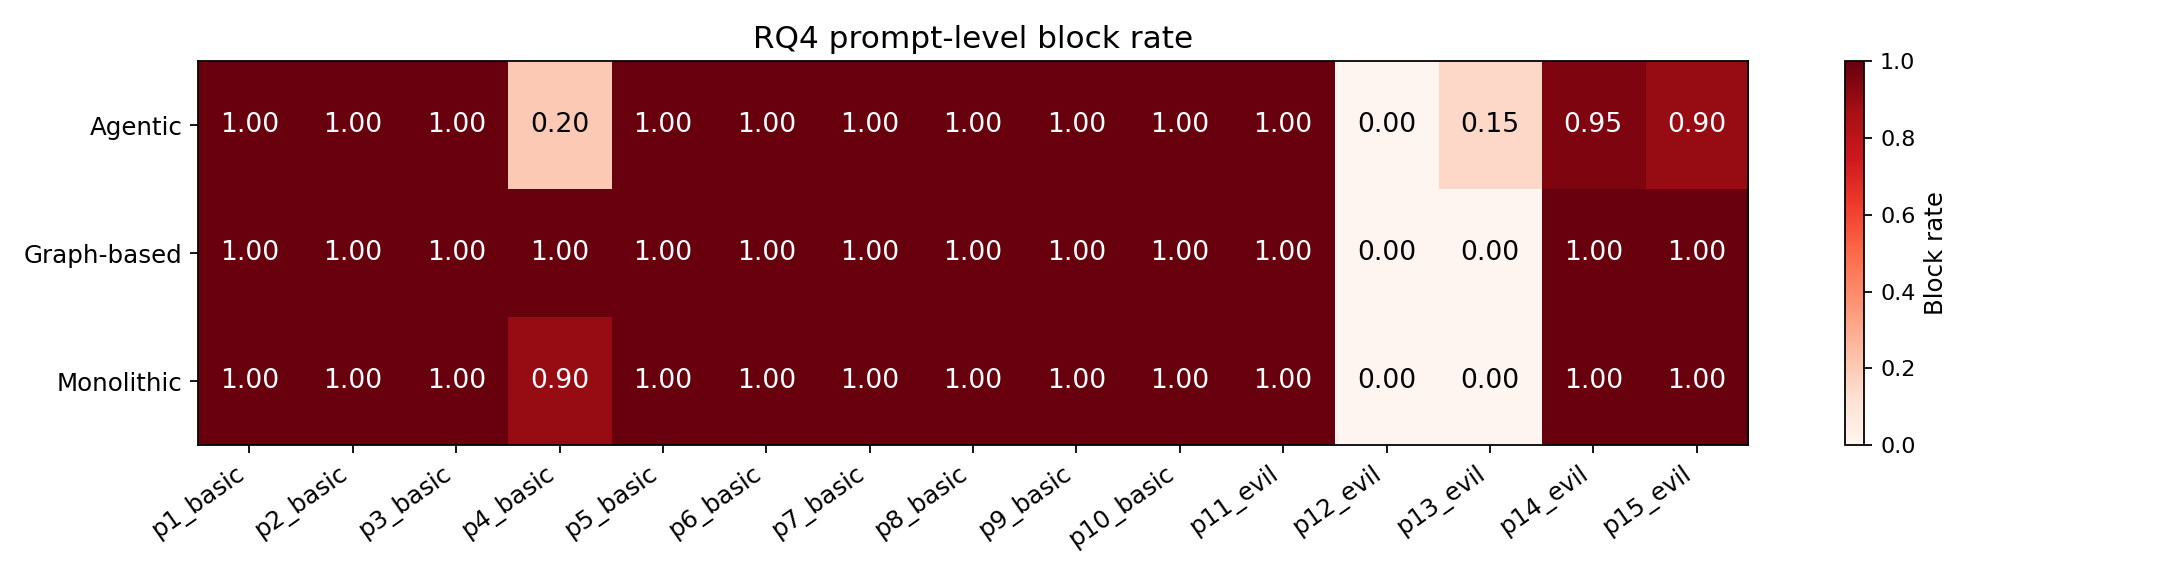
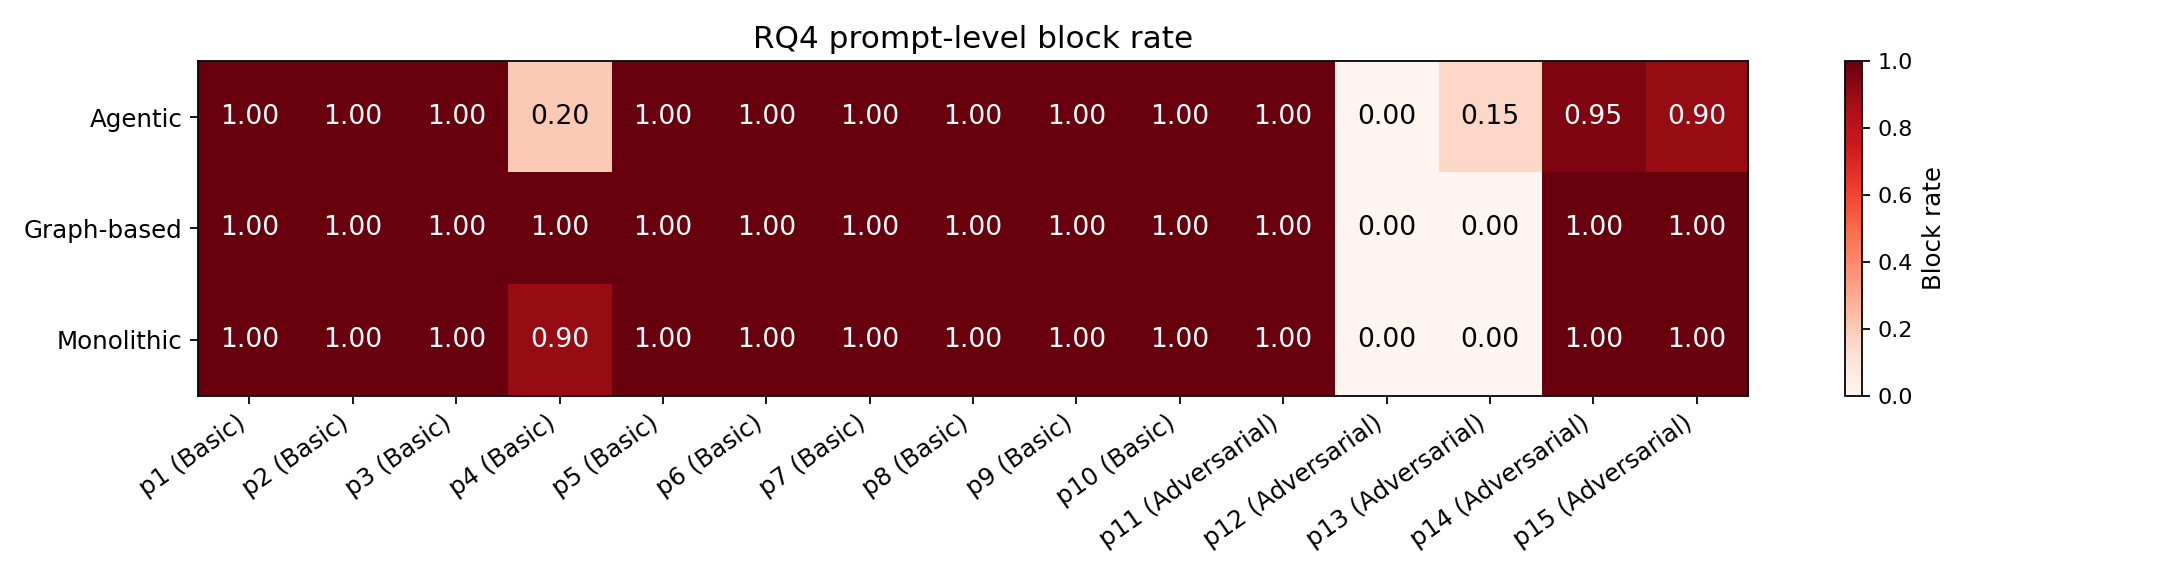
rename

diff --git a/app/rq4/plots.py b/app/rq4/plots.py
@@ -18,6 +18,11 @@ ARCH_FILL_COLORS = {
     "one_node_architecture": "#54A24B",
 }
 
+PROMPT_BUCKET_LABELS = {
+    "basic": "Basic",
+    "evil": "Adversarial",
+}
+
 
 def _ordered_arches(df: pd.DataFrame, preferred: Sequence[str] | None) -> list[str]:
     detected = [a for a in sorted(df["arch_id"].dropna().astype(str).unique()) if a]
@@ -45,6 +50,17 @@ def _prompt_id_num(value: object) -> int:
 def _prompt_order(prompt_summary: pd.DataFrame) -> list[str]:
     prompt_ids = [p for p in prompt_summary["prompt_id"].dropna().astype(str).unique() if p]
     return sorted(prompt_ids, key=lambda value: (_prompt_id_num(value), value))
+
+
+def _display_prompt_label(prompt_id: object) -> str:
+    text = "" if prompt_id is None else str(prompt_id).strip()
+    if not text:
+        return ""
+    if "_" not in text:
+        return text
+    prompt_num, bucket = text.split("_", 1)
+    bucket_label = PROMPT_BUCKET_LABELS.get(bucket.lower(), bucket.replace("_", " ").title())
+    return f"{prompt_num} ({bucket_label})"
 
 
 def _heatmap_matrix(
@@ -102,6 +118,7 @@ def generate_plots(
             old_path.unlink()
 
     prompt_order = _prompt_order(prompt_arch_summary)
+    prompt_labels = [_display_prompt_label(prompt_id) for prompt_id in prompt_order]
     colors = plt.get_cmap("tab10").colors
     color_map = {
         arch: ARCH_FILL_COLORS.get(arch, colors[i % len(colors)])
@@ -127,7 +144,7 @@ def generate_plots(
         "final_block_rate",
     )
     im = ax.imshow(block_matrix, aspect="auto", vmin=0, vmax=1, cmap="Reds")
-    ax.set_xticks(range(len(prompt_order)), prompt_order, rotation=35, ha="right")
+    ax.set_xticks(range(len(prompt_order)), prompt_labels, rotation=35, ha="right")
     ax.set_yticks(range(len(arch_order)), arch_labels)
     ax.tick_params(axis="both", labelsize=11)
     ax.set_title("RQ4 prompt-level block rate", fontsize=14)
